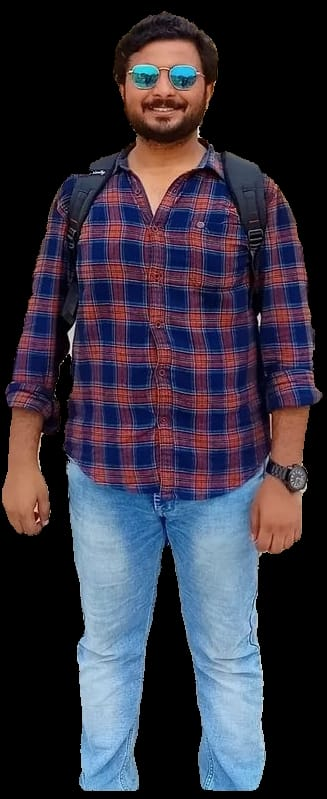
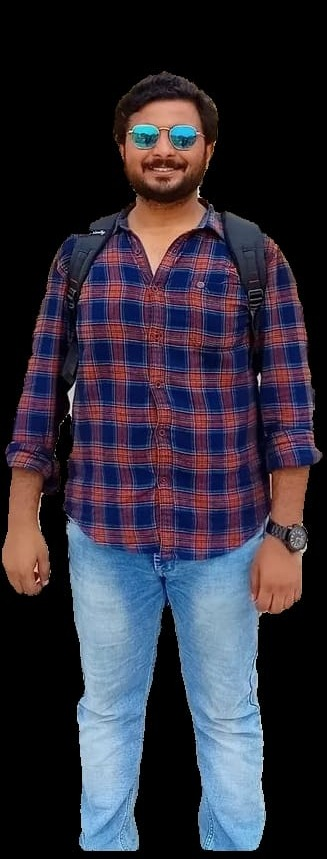
feat(ui): auto-advancing splash, team names, and news feed filters
Splash
- Advance to the landing page on a timer instead of requiring a click, with a
  progress bar in place of the Continue button and click/tap/key to skip.
  Guarded so the timer and a skip cannot both fire and double-advance past the
  language popup.

Team
- Replace the placeholder names and roles with the real team, ordered from the
  founder. Pad the top of one photo whose subject was flush to the frame edge;
  cropping alone could not recover headroom the source did not have.

News feed
- Label each card as Press Conference or News Article, from the item's
  content_type.
- Filter by date (today / 7 days / 30 days) and by type, with an active-filter
  count and a clear action. Date filtering uses published_at, so it reflects
  when the story happened rather than when the row was written.
- Enlarge the page heading and add a Headlines section header above the grid,
  carrying the active section's accent colour.

diff --git a/frontend/src/pages/SocialMediaPostGenerator.jsx b/frontend/src/pages/SocialMediaPostGenerator.jsx
@@ -2,7 +2,7 @@ import { useState, useRef, useEffect, useMemo, useCallback } from 'react';
 import { useNavigate } from 'react-router-dom';
 import {
   ArrowLeft, Search, Filter, Sparkles,
-  Copy, Check, RefreshCw, ChevronDown, Eye, FileText, Star,
+  Copy, Check, RefreshCw, ChevronDown, Eye, FileText, Star, Radio,
 } from 'lucide-react';
 
 import PreferencesPanel from '../components/generate/PreferencesPanel';
@@ -88,7 +88,31 @@ function adaptNews(item) {
     topic:    item.summary || item.headline,
     tenantId:   item.tenant_id ?? 0,
     tenantSlug: item.tenant_slug || 'general',
+    contentType: item.content_type || 'news',
   };
+}
+
+// Livestreamed briefings read differently from regular uploads, so the card
+// says which it is.
+const CONTENT_TYPES = {
+  press_conference: { label: 'Press Conference', color: '#f0a63a' },
+  news:             { label: 'News Article',     color: '#5a6e9a' },
+};
+
+// Date buckets for the filter menu. `days: null` means no date restriction.
+const DATE_FILTERS = [
+  { id: 'all',   label: 'All dates',   days: null },
+  { id: 'today', label: 'Today',       days: 1 },
+  { id: '7d',    label: 'Last 7 days', days: 7 },
+  { id: '30d',   label: 'Last 30 days', days: 30 },
+];
+
+function withinDays(dateValue, days) {
+  if (!days) return true;
+  if (!dateValue) return false;
+  const t = new Date(dateValue).getTime();
+  if (Number.isNaN(t)) return false;
+  return t >= Date.now() - days * 86400000;
 }
 
 // Signup stores a display name ("Indian National Congress (INC)"); the tenant
@@ -133,6 +157,8 @@ export default function SocialMediaPostGenerator() {
   const [tone,            setTone]           = useState('Professional');
   const [search,          setSearch]          = useState('');
   const [activeFilter,    setActiveFilter]    = useState('All');
+  const [dateFilter,      setDateFilter]      = useState('all');
+  const [typeFilter,      setTypeFilter]      = useState('all'); // all | news | press_conference
   const [page,            setPage]            = useState(1);
   const [tenants,         setTenants]         = useState([]);
   const [newsSection,     setNewsSection]     = useState('party'); // 'party' | 'general'
@@ -294,11 +320,24 @@ export default function SocialMediaPostGenerator() {
     ? articles
     : (newsSection === 'party' ? partyArticles : generalArticles);
 
-  const filteredArticles = useMemo(() => sectionArticles.filter((a) => {
-    const matchSearch = !search || a.title.toLowerCase().includes(search.toLowerCase());
-    const matchFilter = activeFilter === 'All' || a.category === activeFilter;
-    return matchSearch && matchFilter;
-  }), [sectionArticles, search, activeFilter]);
+  // Accent for the section currently on screen; falls back to the party colour
+  // when no party is set, so the heading is never unstyled.
+  const theme = SECTION_THEME[activeParty ? newsSection : 'party'] ?? SECTION_THEME.party;
+
+  const filteredArticles = useMemo(() => {
+    const days = DATE_FILTERS.find((d) => d.id === dateFilter)?.days ?? null;
+    return sectionArticles.filter((a) => {
+      const matchSearch = !search || a.title.toLowerCase().includes(search.toLowerCase());
+      const matchFilter = activeFilter === 'All' || a.category === activeFilter;
+      const matchDate   = withinDays(a.date, days);
+      const matchType   = typeFilter === 'all' || a.contentType === typeFilter;
+      return matchSearch && matchFilter && matchDate && matchType;
+    });
+  }, [sectionArticles, search, activeFilter, dateFilter, typeFilter]);
+
+  const filtersActive = (dateFilter !== 'all' ? 1 : 0)
+    + (typeFilter !== 'all' ? 1 : 0)
+    + (activeFilter !== 'All' ? 1 : 0);
 
   // Numbered pagination — slice the filtered list into fixed-size pages.
   // Clamp during render so a stale-high page never slices out of range
@@ -638,10 +677,12 @@ export default function SocialMediaPostGenerator() {
 
         {/* AmbedkarGPT identity banner — sits above the search bar */}
         <div className="mx-6 mt-5 flex items-center gap-4 rounded-xl border border-[#1a2d55]/50 bg-[#070e22]/80 px-5 py-3.5 md:mx-8">
-          <img src={logoSrc} alt="AmbedkarGPT" className="h-8 w-8 shrink-0 object-contain opacity-90 drop-shadow-[0_0_8px_rgba(63,159,255,0.5)]" />
+          <img src={logoSrc} alt="AmbedkarGPT" className="h-10 w-10 shrink-0 object-contain opacity-90 drop-shadow-[0_0_8px_rgba(63,159,255,0.5)]" />
           <div className="min-w-0">
-            <p className="font-display text-[15px] font-semibold text-white">Social Media Post Generator</p>
-            <p className="text-[11.5px] text-[#6b78a0]">
+            <p className="font-display text-[20px] font-bold leading-tight text-white md:text-[23px]">
+              Social Media Post Generator
+            </p>
+            <p className="mt-0.5 text-[12.5px] text-[#6b78a0]">
               Educate &middot; Agitate &middot; Organize &mdash; Dr. B.R. Ambedkar
             </p>
           </div>
@@ -677,30 +718,71 @@ export default function SocialMediaPostGenerator() {
               type="button"
               onClick={() => { setFilterOpen((p) => !p); setView('feed'); }}
               className={`inline-flex items-center gap-2 rounded-full border px-4 py-2.5 text-[12.5px] font-medium transition ${
-                activeFilter !== 'All'
+                filtersActive
                   ? 'border-[#3f9fff]/60 bg-[#0d1a3a] text-[#6aa8ff]'
                   : 'border-[#1e3260]/70 bg-[#0d1531]/80 text-[#8b94b8] hover:border-[#3a6bc4]/60 hover:text-white'
               }`}
             >
               <Filter size={13} strokeWidth={2} />
-              {activeFilter === 'All' ? 'Filter News' : activeFilter}
+              Filter News
+              {filtersActive > 0 && (
+                <span className="rounded-full bg-[#3f9fff] px-1.5 py-0.5 font-count text-[10px] leading-none text-white">
+                  {filtersActive}
+                </span>
+              )}
             </button>
 
             {filterOpen && (
-              <div className="absolute right-0 top-[calc(100%+6px)] z-40 w-40 overflow-hidden rounded-xl border border-[#1e3260]/70 bg-[#0d1531] shadow-xl">
-                {CATEGORIES.map((cat) => (
+              <div className="absolute right-0 top-[calc(100%+6px)] z-40 w-56 overflow-hidden rounded-xl border border-[#1e3260]/70 bg-[#0d1531] shadow-xl">
+                {/* Date */}
+                <p className="px-4 pb-1.5 pt-3 text-[10px] font-semibold uppercase tracking-[0.15em] text-[#5a6e9a]">
+                  Date
+                </p>
+                {DATE_FILTERS.map((d) => (
                   <button
-                    key={cat}
+                    key={d.id}
                     type="button"
-                    onClick={() => { setActiveFilter(cat); setPage(1); setFilterOpen(false); setView('feed'); }}
-                    className={`flex w-full items-center justify-between px-4 py-2.5 text-[12.5px] transition hover:bg-[#0f1a3a] ${
-                      cat === activeFilter ? 'text-[#3f9fff]' : 'text-white/80'
+                    onClick={() => { setDateFilter(d.id); setPage(1); setView('feed'); }}
+                    className={`flex w-full items-center justify-between px-4 py-2 text-[12.5px] transition hover:bg-[#0f1a3a] ${
+                      d.id === dateFilter ? 'text-[#3f9fff]' : 'text-white/80'
                     }`}
                   >
-                    {cat}
-                    {cat === activeFilter && <span className="h-1.5 w-1.5 rounded-full bg-[#3f9fff]" />}
+                    {d.label}
+                    {d.id === dateFilter && <span className="h-1.5 w-1.5 rounded-full bg-[#3f9fff]" />}
                   </button>
                 ))}
+
+                {/* Type */}
+                <p className="border-t border-[#1e3260]/60 px-4 pb-1.5 pt-3 text-[10px] font-semibold uppercase tracking-[0.15em] text-[#5a6e9a]">
+                  Type
+                </p>
+                {[
+                  { id: 'all', label: 'All types' },
+                  { id: 'news', label: CONTENT_TYPES.news.label },
+                  { id: 'press_conference', label: CONTENT_TYPES.press_conference.label },
+                ].map((t) => (
+                  <button
+                    key={t.id}
+                    type="button"
+                    onClick={() => { setTypeFilter(t.id); setPage(1); setView('feed'); }}
+                    className={`flex w-full items-center justify-between px-4 py-2 text-[12.5px] transition hover:bg-[#0f1a3a] ${
+                      t.id === typeFilter ? 'text-[#3f9fff]' : 'text-white/80'
+                    }`}
+                  >
+                    {t.label}
+                    {t.id === typeFilter && <span className="h-1.5 w-1.5 rounded-full bg-[#3f9fff]" />}
+                  </button>
+                ))}
+
+                {filtersActive > 0 && (
+                  <button
+                    type="button"
+                    onClick={() => { setDateFilter('all'); setTypeFilter('all'); setActiveFilter('All'); setPage(1); }}
+                    className="w-full border-t border-[#1e3260]/60 px-4 py-2.5 text-left text-[12px] text-[#8b94b8] transition hover:bg-[#0f1a3a] hover:text-white"
+                  >
+                    Clear filters
+                  </button>
+                )}
               </div>
             )}
           </div>
@@ -823,6 +905,29 @@ export default function SocialMediaPostGenerator() {
             )}
             {!newsLoading && !newsError && filteredArticles.length > 0 && (
               <>
+              {/* Section heading for the card grid */}
+              <div className="mb-5 mt-1">
+                <div className="flex items-center gap-3">
+                  {/* Accent bar ties the heading to the active section's colour */}
+                  <span
+                    className="h-7 w-[4px] shrink-0 rounded-full"
+                    style={{ backgroundColor: theme.accent, boxShadow: `0 0 12px ${theme.accent}88` }}
+                  />
+                  <h3 className="font-display text-[26px] font-bold leading-none tracking-tight text-white">
+                    Headlines
+                  </h3>
+                  <span
+                    className="rounded-full px-2.5 py-1 font-count text-[12.5px] font-semibold leading-none"
+                    style={{ backgroundColor: `${theme.accent}1f`, color: theme.accent }}
+                  >
+                    {filteredArticles.length}
+                  </span>
+                </div>
+                <p className="mt-2 pl-[19px] text-[13px] text-[#7d8aa6]">
+                  Pick a story below to generate a post from it.
+                </p>
+              </div>
+
               <div className="grid gap-5 lg:grid-cols-2">
                 {pagedArticles.map((article) => {
                   const dateLabel = formatNewsDate(article.date);
@@ -848,9 +953,14 @@ export default function SocialMediaPostGenerator() {
                     >
                       {/* Header row: NEWS ARTICLE label · category tag */}
                       <div className="mb-3 flex items-center justify-between gap-3">
-                        <span className="inline-flex items-center gap-1.5 font-count text-[11px] font-semibold uppercase tracking-[0.18em] text-[#5a6e9a]">
-                          <FileText size={12} strokeWidth={2} className="text-[#3f6aaa]" />
-                          News Article
+                        <span
+                          className="inline-flex items-center gap-1.5 font-count text-[11px] font-semibold uppercase tracking-[0.18em]"
+                          style={{ color: (CONTENT_TYPES[article.contentType] ?? CONTENT_TYPES.news).color }}
+                        >
+                          {article.contentType === 'press_conference'
+                            ? <Radio size={12} strokeWidth={2} />
+                            : <FileText size={12} strokeWidth={2} />}
+                          {(CONTENT_TYPES[article.contentType] ?? CONTENT_TYPES.news).label}
                         </span>
                         <span
                           className="shrink-0 rounded-full border px-3 py-1 font-count text-[11px] uppercase tracking-wider"

diff --git a/frontend/src/components/OpeningSplash.jsx b/frontend/src/components/OpeningSplash.jsx
@@ -2,6 +2,8 @@ import { useEffect, useState, useCallback } from 'react';
 import logoSrc from '../assets/images/logo-animation.png';
 
 const EXIT_MS = 180;
+// How long the splash holds before handing off to the landing page.
+const HOLD_MS = 2600;
 
 export default function OpeningSplash({ onDone }) {
   const [phase, setPhase] = useState('enter');
@@ -14,16 +16,31 @@ export default function OpeningSplash({ onDone }) {
   }, []);
 
   const dismiss = useCallback(() => {
-    setPhase('exit');
-    setTimeout(() => {
-      setPhase('gone');
-      onDone?.();
-    }, EXIT_MS);
+    setPhase((p) => {
+      if (p !== 'enter') return p; // a click and the timer must not both fire
+      setTimeout(() => {
+        setPhase('gone');
+        onDone?.();
+      }, EXIT_MS);
+      return 'exit';
+    });
   }, [onDone]);
 
-  function handleContinue() {
-    dismiss();
-  }
+  // Auto-advance to the landing page; no interaction required.
+  useEffect(() => {
+    const id = setTimeout(dismiss, HOLD_MS);
+    return () => clearTimeout(id);
+  }, [dismiss]);
+
+  // Let an impatient visitor skip ahead with a click, tap or key.
+  useEffect(() => {
+    window.addEventListener('keydown', dismiss);
+    window.addEventListener('pointerdown', dismiss);
+    return () => {
+      window.removeEventListener('keydown', dismiss);
+      window.removeEventListener('pointerdown', dismiss);
+    };
+  }, [dismiss]);
 
   if (phase === 'gone') return null;
 
@@ -100,23 +117,30 @@ export default function OpeningSplash({ onDone }) {
         ESTD. 2026
       </p>
 
-      {/* Continue button */}
-      <div className="splash-lang relative z-10 mt-8">
-        <button
-          type="button"
-          onClick={handleContinue}
-          className="group inline-flex items-center gap-2.5 rounded-full px-7 py-2.5 font-count text-[14px] font-semibold text-white transition-all duration-200 hover:-translate-y-0.5 hover:brightness-110"
-          style={{
-            background: 'linear-gradient(135deg, #1a5fff 0%, #3f9fff 100%)',
-            boxShadow: '0 4px 20px rgba(63,159,255,0.35)',
-          }}
+      {/* Progress bar — replaces the old Continue button now that the splash
+          advances on its own. It shows the wait is finite and deliberate. */}
+      <div className="splash-lang relative z-10 mt-9 flex flex-col items-center gap-3">
+        <div
+          className="h-[3px] w-[148px] overflow-hidden rounded-full"
+          style={{ background: 'rgba(90,130,192,0.22)' }}
         >
-          Continue
-          <svg width="16" height="16" viewBox="0 0 16 16" fill="none" aria-hidden="true">
-            <path d="M3 8h10M9 4l4 4-4 4" stroke="currentColor" strokeWidth="1.8" strokeLinecap="round" strokeLinejoin="round" />
-          </svg>
-        </button>
+          <div
+            className="h-full rounded-full"
+            style={{
+              background: 'linear-gradient(90deg, #1a5fff 0%, #3f9fff 100%)',
+              boxShadow: '0 0 10px rgba(63,159,255,0.6)',
+              animation: `splashProgress ${HOLD_MS}ms linear forwards`,
+            }}
+          />
+        </div>
+        <span className="font-count text-[10.5px] uppercase tracking-[0.28em]" style={{ color: '#4d6da6' }}>
+          Loading
+        </span>
       </div>
+
+      <style>{`
+        @keyframes splashProgress { from { width: 0%; } to { width: 100%; } }
+      `}</style>
     </div>
   );
 }

diff --git a/frontend/src/components/landing/TeamSection.jsx b/frontend/src/components/landing/TeamSection.jsx
@@ -9,16 +9,16 @@ import team5 from "../../assets/images/team/team5.jpeg";
 import team6 from "../../assets/images/team/team6.jpeg";
 import team7 from "../../assets/images/team/team7.jpeg";
 
-// NOTE: names/roles are placeholders — photos to be matched to real names later.
-// `position` sets each photo's focal point so faces are never cropped out.
+// `position` sets each photo's focal point so faces are never cropped out, and
+// stays tied to its photo when the display order changes.
 const TEAM = [
-  { name: "Team Member", role: "AmbedkarGPT", photo: team1, position: "50% 25%" },
-  { name: "Team Member", role: "AmbedkarGPT", photo: team2, position: "50% 20%" },
-  { name: "Team Member", role: "AmbedkarGPT", photo: team3, position: "50% 30%" },
-  { name: "Team Member", role: "AmbedkarGPT", photo: team4, position: "50% 20%" },
-  { name: "Team Member", role: "AmbedkarGPT", photo: team5, position: "50% 55%" },
-  { name: "Team Member", role: "AmbedkarGPT", photo: team6, position: "50% 12%" },
-  { name: "Team Member", role: "AmbedkarGPT", photo: team7, position: "50% 40%" },
+  { name: "Kinjalk Singh",         role: "Founder",                 photo: team4, position: "50% 20%" },
+  { name: "Kishore Jain",          role: "Advisor",                 photo: team5, position: "50% 55%" },
+  { name: "Chaudhary Arpit Singh", role: "Research Associate",      photo: team6, position: "50% 0%" },
+  { name: "Michale Randle",        role: "Advisor",                 photo: team7, position: "50% 40%" },
+  { name: "Kunal Lonhare",         role: "Influencer",              photo: team1, position: "50% 25%" },
+  { name: "Kalpik Singh",          role: "Knowledge Graph Analyst", photo: team2, position: "50% 20%" },
+  { name: "Sajjal Dixit",          role: "Operation Manager",       photo: team3, position: "50% 30%" },
 ];
 
 function NavButton({ onClick, direction, label }) {
